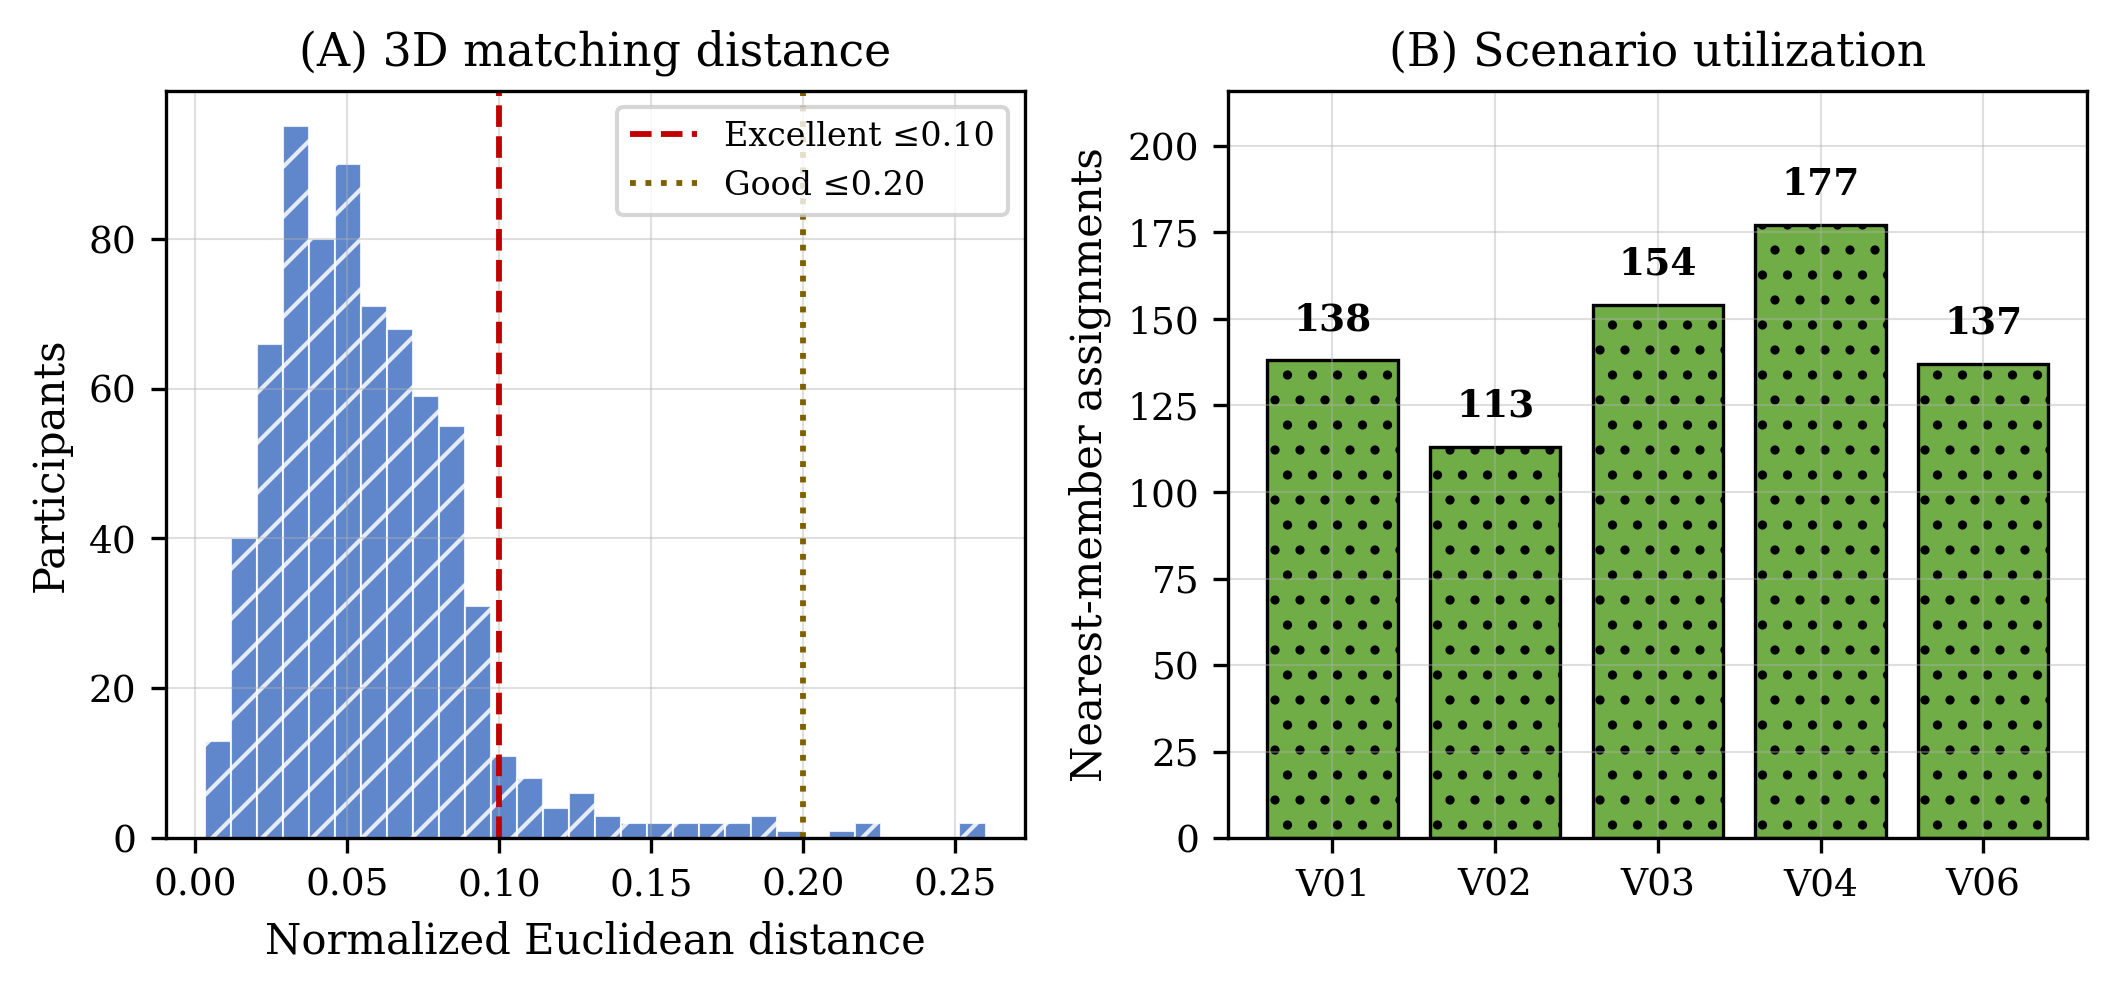
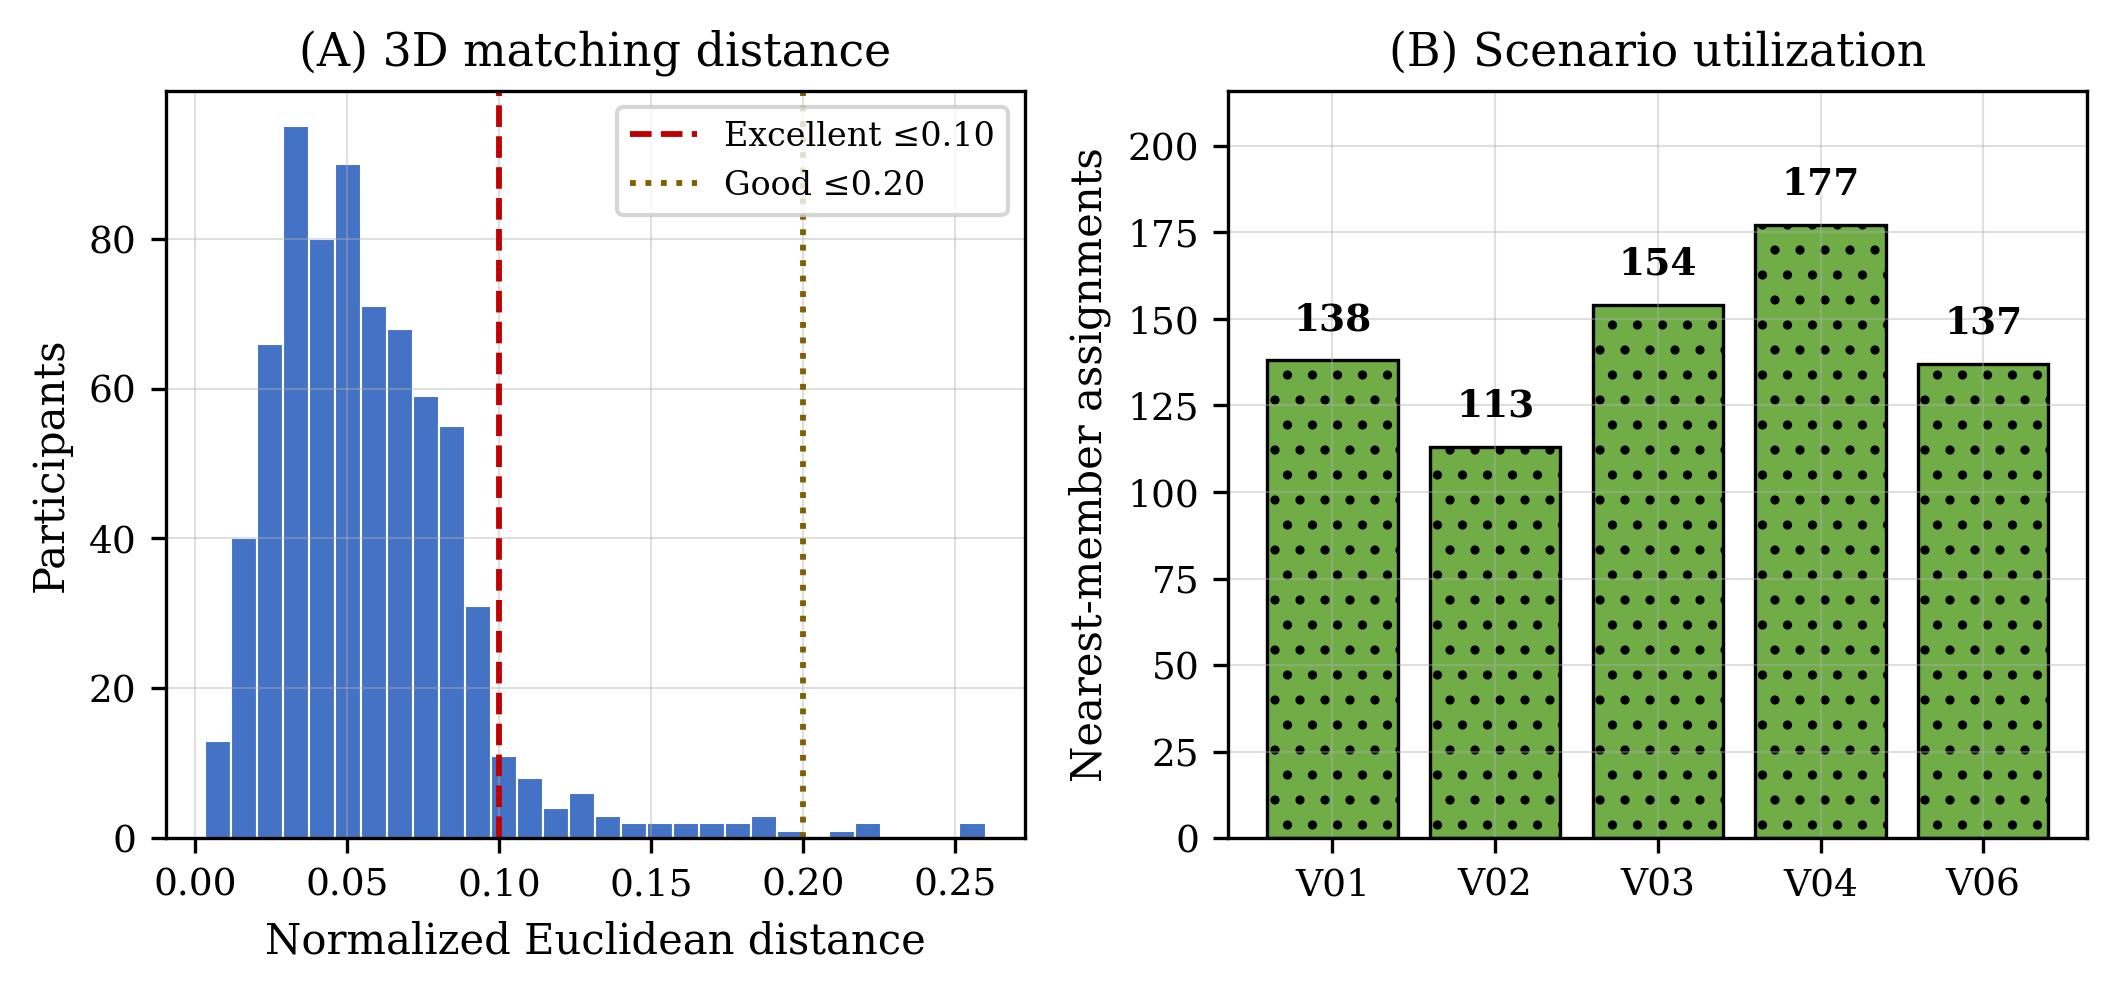
Remove hatch from histogram; fix flow diagram text overflow
- plotting.py: histogram uses solid fill (hatch distorted the bar shape);
  bar charts retain hatch patterns for grayscale legibility
- make_flow_diagram.py: branch arrows changed to straight horizontal
  (horiz_arrow function, no connectionstyle angle); exclusion box heights
  increased to EXCL_H3=1.05 (3-line text) and EXCL_H2=0.80 (2-line);
  Y levels spread further apart to give boxes enough room; branch arrows
  now originate from the right edge of the main box so they never pass
  through box interiors ambiguously

Changed region(s): [[0.0935, 0.125, 0.3741, 0.8438], [0.4053, 0.8125, 0.4676, 0.8438]]

diff --git a/src/t1d_virtual_cohort/plotting.py b/src/t1d_virtual_cohort/plotting.py
@@ -53,9 +53,9 @@ def plot_matching_overview(
     _setup()
     fig, axes = plt.subplots(1, 2, figsize=(7.16, 3.4))
 
-    # (A) Distance histogram — blue fill + hatch for grayscale printing
+    # (A) Distance histogram — solid blue, no hatch (histogram shape carries info)
     axes[0].hist(matches["distance"], bins=30, color="#4472C4", edgecolor="white",
-                 linewidth=0.5, hatch="//", alpha=0.85)
+                 linewidth=0.5)
     axes[0].axvline(excellent, color="#C00000", linestyle="--", linewidth=1.4,
                     label=f"Excellent ≤{excellent:.2f}")
     axes[0].axvline(good, color="#7F6000", linestyle=":", linewidth=1.4,
